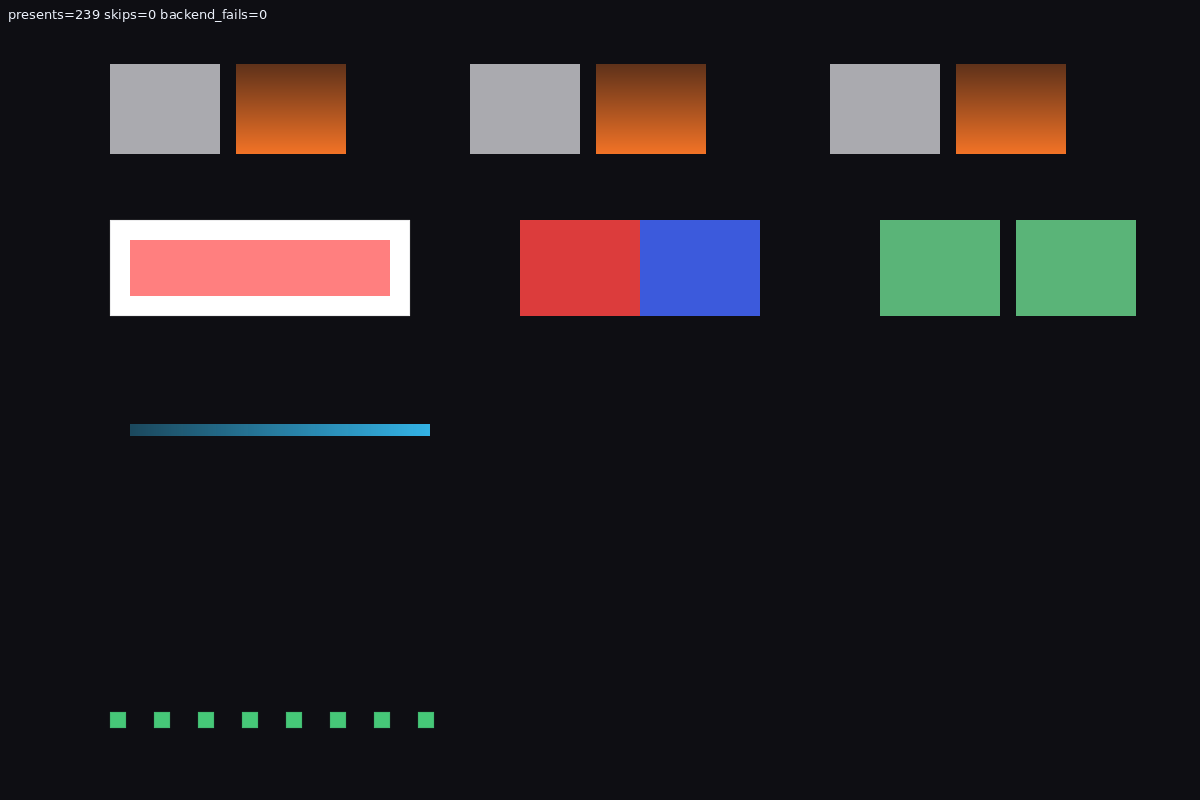
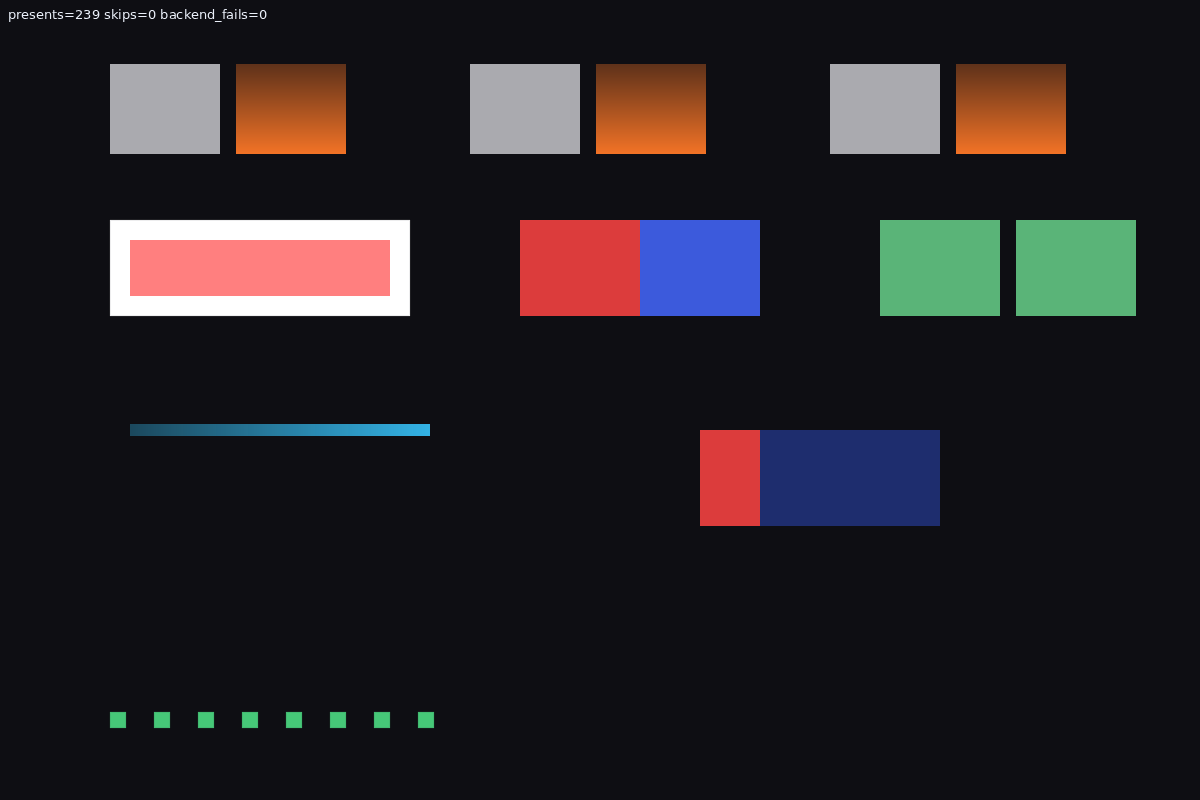
缺口2 补证：③ 窗加臂 F「材质 uniform 载荷参与出图」（探针 13→16）
窗内此前只在「校验」里碰 uniform，没有一帧画面由 uniform 的内容决定；
引擎侧 3c 的 mix_level 像素级验证只是原子验证，缺呈现帧真窗证据。

臂 F：272B uniform（array<vec4<f32>,16> 占位 256B，split@256B 落在旧预算之外、
gain@260B）决定分屏边界与右半增益。同几何、同纹理、同着色器只换字节跑三案
（split 0.25/0.75/0），固定像素必须跟着翻色；锚点与期望色写死在边界两侧、
不随 fSplit 自算（自算即循环断言）。不用全零载荷做「边界读 0」那案——那会把
增益一起归零成纯黑，与「什么都没画」不可分辨。

金图删基线重录：native/go 复核 + 两轮稳定轮四连 16/16 0.0000%、两基线逐位相同；
H16 第四变异 fSplit 0.25→0.60 双探针红 + 金图 0.875%，还原后双后端复绿。

Changed region(s): [[0.5858, 0.5312, 0.8017, 0.6562]]

diff --git a/examples/engine/p37_material/main.go b/examples/engine/p37_material/main.go
@@ -15,6 +15,10 @@
 //	e) 拒绝态底带：七哨兵六枚前端具名（errors.Is）+ 透视/bicubic+材质的
 //	   ErrQuadMaterialUnsupported 现场拒绝（MaterialSkips++）+ ShaderBackendFails
 //	   计数（gles 腿实测；预算顶格 shader 是本扇的 gles 承载尝试，结果如实记）。
+//	f) uniform 载荷参与出图：272B uniform（边界字段落在旧 256B 预算之外）决定分屏
+//	   边界与右半增益——同几何、同纹理、同着色器，只换 uniform 字节，边界必须跟着走；
+//	   全零载荷必须把边界读成 0（证明值真从载荷里来，不是着色器写死的）。
+//	   补的是审计缺口 2：此前本扇 uniform 只出现在「校验」里，没有一帧画面由它决定。
 //
 // 满窗即内容：指标行浮在画面左上（金图 mask 掉 y<32 带）；画面相位只随已完成
 // 帧数走、过 settling 帧后定格（H15）。金图按后端分文件
@@ -32,6 +36,7 @@
 package main
 
 import (
+	"encoding/binary"
 	"encoding/json"
 	"errors"
 	"flag"
@@ -82,6 +87,18 @@ const (
 	dY       = 430.0
 	dX0, dX1 = 130.0, 430.0
 	dWidth   = 12.0
+
+	// 臂 f uniform 载荷决定画面（272B：边界字段落在旧 256B 预算之外）。
+	// 落点避开臂 e 的「拒绝区应保持底色」锚 (610,560) 与底带 y≥712。
+	fImgX, fImgY = 700.0, 430.0
+	fImgW, fImgH = 240.0, 96.0
+	// 写进 uniform 的两个值（画面与探针共用同一份常数）。
+	fSplit = 0.25 // uv.x 空间的分屏边界
+	fGain  = 0.5  // 右半亮度增益
+	// uniformOldBudget = 批 3c 抬预算之前的上限；split 落在它之外，谁在半路截断
+	// 载荷，着色器就会把边界读成 0（整块变暗蓝），锚立刻报警。
+	uniformOldBudget  = 256
+	uniformSplitBytes = 272 // = 256B 占位 + split + gain + 两个保留 f32
 
 	// 拒绝态底带。
 	refusalY = 712.0
@@ -163,6 +180,44 @@ fn fs_main(@location(0) uv: vec2<f32>) -> @location(0) vec4<f32> {
 
 var testdataDir = filepath.Join("examples", "engine", "p37_material", "testdata")
 
+// effUniformSplitWGSL：臂 f 的着色器——分屏边界与右半增益**只**来自 uniform。
+// struct 前 256B 是占位（uniform 地址空间要求数组 stride 是 16 的倍数，故用
+// 16×vec4 而不是 64×f32——写成后者 naga 直接拒整个模块），`split` 落在偏移
+// 256B（旧预算之外）、`gain` 落在 260B ⇒ 载荷若被半路截断，边界读成 0、
+// 画面整块变暗蓝，锚立刻对不上。
+const effUniformSplitWGSL = `
+struct USplit {
+    pad: array<vec4<f32>, 16>,
+    split: f32,
+    gain: f32,
+    rsv2: f32,
+    rsv3: f32,
+}
+@group(0) @binding(0) var<uniform> u: USplit;
+@group(0) @binding(1) var m_tex0: texture_2d<f32>;
+@group(0) @binding(2) var m_samp0: sampler;
+@group(0) @binding(3) var m_tex1: texture_2d<f32>;
+@group(0) @binding(4) var m_samp1: sampler;
+
+@fragment
+fn fs_main(@location(0) uv: vec2<f32>) -> @location(0) vec4<f32> {
+    let a = textureSample(m_tex0, m_samp0, uv);
+    let b = textureSample(m_tex1, m_samp1, uv);
+    if uv.x < u.split {
+        return a;
+    }
+    return vec4<f32>(b.r * u.gain, b.g * u.gain, b.b * u.gain, b.a);
+}`
+
+// uniformSplitPayload 拼臂 f 的 272B uniform（GPU uniform 缓冲按小端原样 memcpy，
+// 平台即 x86/ARM 小端；偏移 256/260 处放两个 f32，其余留零）。
+func uniformSplitPayload(split, gain float32) []byte {
+	b := make([]byte, uniformSplitBytes)
+	binary.LittleEndian.PutUint32(b[uniformOldBudget:], math.Float32bits(split))
+	binary.LittleEndian.PutUint32(b[uniformOldBudget+4:], math.Float32bits(gain))
+	return b
+}
+
 // texSolid 生成纯色 ImageBuf（探针期望色 = 同一份常数）。
 func texSolid(w, h int, c [3]uint8) *render.ImageBuf {
 	buf, err := render.NewImageBuf(w, h, render.FormatRGBA8)
@@ -180,10 +235,18 @@ func texSolid(w, h int, c [3]uint8) *render.ImageBuf {
 }
 
 var (
-	texGray  = texSolid(110, 90, [3]uint8{170, 170, 175}) // 无材质对照
-	texRed   = texSolid(240, 96, [3]uint8{220, 60, 60})   // slot0 主图
-	texBlue  = texSolid(240, 96, [3]uint8{60, 90, 220})   // slot1 第二张
-	texIdent = texSolid(120, 96, [3]uint8{90, 180, 120})  // 恒等对照段
+	texGray  = texSolid(110, 90, texGrayColor)  // 无材质对照
+	texRed   = texSolid(240, 96, texRedColor)   // slot0 主图
+	texBlue  = texSolid(240, 96, texBlueColor)  // slot1 第二张
+	texIdent = texSolid(120, 96, texIdentColor) // 恒等对照段
+)
+
+// 纹理底色（探针期望色与 texSolid 的入参是同一份常数，改一处两边同步）。
+var (
+	texGrayColor  = [3]uint8{170, 170, 175}
+	texRedColor   = [3]uint8{220, 60, 60}
+	texBlueColor  = [3]uint8{60, 90, 220}
+	texIdentColor = [3]uint8{90, 180, 120}
 )
 
 func mustEffect(wgsl string) *render.ShaderEffect {
@@ -203,8 +266,17 @@ var (
 	effStroke   = mustEffect(effStrokeWGSL)
 )
 
+// 臂 f 的窗体实例：uniform 与第二张纹理都在 init 里一次性设好，绝不进每帧路径。
+var effUniformSplit = mustEffect(effUniformSplitWGSL)
+
 func init() {
 	if err := effSplit.SetImageAt(1, texBlue); err != nil {
+		panic(err)
+	}
+	if err := effUniformSplit.SetImageAt(1, texBlue); err != nil {
+		panic(err)
+	}
+	if err := effUniformSplit.SetUniformBytes(uniformSplitPayload(fSplit, fGain)); err != nil {
 		panic(err)
 	}
 }
@@ -304,6 +376,13 @@ func paintAll(dc render.Canvas, w, h float64) error {
 		return err
 	}
 	resetD()
+	// 臂 f：uniform 载荷决定画面（左 1/4 主图红、其余暗蓝；边界与增益全在 uniform 里）。
+	if err := dc.DrawImageQuad(texRed, [4]render.Point{
+		{X: fImgX, Y: fImgY}, {X: fImgX + fImgW, Y: fImgY},
+		{X: fImgX + fImgW, Y: fImgY + fImgH}, {X: fImgX, Y: fImgY + fImgH},
+	}, render.QuadDrawOptions{Material: effUniformSplit}); err != nil {
+		return err
+	}
 	// 臂 e：拒绝态底带（离屏探针同一份事实）。
 	paintRefusalBand(dc)
 	return nil
@@ -583,6 +662,58 @@ func runProbes() probeReport {
 		fmt.Sprintf("left=(%d,%d,%d) right=(%d,%d,%d)", lr, lg, lb, rr2, rg2, rb2))
 	_ = dcC.Close()
 
+	// 臂 f：uniform 载荷决定画面——同几何、同纹理、同着色器，只换 uniform 字节。
+	// 锚点全在固定像素上，期望色写死（`0.125 < fSplit(0.25) < 0.5 < 0.75`），
+	// 不随 fSplit 自算——否则 fSplit 被人改也照样「自洽绿」，就成循环断言了。
+	paintPayload := func(tag string, payload []byte) *render.Context {
+		dcF := newCtx(w, h)
+		effF := mustEffect(effUniformSplitWGSL)
+		if err := effF.SetImageAt(1, texBlue); err != nil {
+			failJoin(&rep, tag+" SetImageAt", err)
+		}
+		if err := effF.SetUniformBytes(payload); err != nil {
+			failJoin(&rep, tag+" SetUniformBytes", err)
+		}
+		if err := flushErr(dcF, func() error {
+			paintBackdrop(dcF, float64(w), float64(h))
+			return dcF.DrawImageQuad(texRed, [4]render.Point{
+				{X: fImgX, Y: fImgY}, {X: fImgX + fImgW, Y: fImgY},
+				{X: fImgX + fImgW, Y: fImgY + fImgH}, {X: fImgX, Y: fImgY + fImgH},
+			}, render.QuadDrawOptions{Material: effF})
+		}); err != nil {
+			failJoin(&rep, tag+" flush", err)
+		}
+		return dcF
+	}
+	dcF1 := paintPayload("arm f split=0.25", uniformSplitPayload(fSplit, fGain))
+	dcF2 := paintPayload("arm f split=0.75", uniformSplitPayload(0.75, fGain))
+	dcF3 := paintPayload("arm f split=0", uniformSplitPayload(0, fGain)) // 增益照旧，只把边界压到 0
+	fLeft, fMid, fRight, fY := int(fImgX+0.125*fImgW), int(fImgX+0.5*fImgW), int(fImgX+0.875*fImgW), int(fImgY+fImgH/2)
+	wantRed := texRedColor
+	wantDim := [3]uint8{uint8(float64(texBlueColor[0]) * fGain), uint8(float64(texBlueColor[1]) * fGain), uint8(float64(texBlueColor[2]) * fGain)}
+	matches := func(dc *render.Context, x, y int, want [3]uint8) (bool, [3]uint8) {
+		r, g, b, _ := pixelAt(dc, x, y)
+		return abs(int(r)-int(want[0])) <= int(blendTol) && abs(int(g)-int(want[1])) <= int(blendTol) && abs(int(b)-int(want[2])) <= int(blendTol),
+			[3]uint8{r, g, b}
+	}
+	m1a, got1a := matches(dcF1, fLeft, fY, wantRed)
+	m1b, got1b := matches(dcF1, fMid, fY, wantDim)
+	rep.add("uniform_payload_paints_split", m1a && m1b, fmt.Sprintf(
+		"split=%.2f 左=(%d,%d,%d) want红 中=(%d,%d,%d) want暗蓝", fSplit, got1a[0], got1a[1], got1a[2], got1b[0], got1b[1], got1b[2]))
+	m2a, got2a := matches(dcF2, fMid, fY, wantRed)
+	m2b, got2b := matches(dcF2, fRight, fY, wantDim)
+	midMoved, _ := matches(dcF1, fMid, fY, wantRed)
+	rep.add("uniform_boundary_follows_payload", m2a && m2b && !midMoved, fmt.Sprintf(
+		"同一像素 split 0.25→0.75：中=(%d,%d,%d)→(%d,%d,%d) 必须翻成红，右=(%d,%d,%d) 仍暗蓝",
+		got1b[0], got1b[1], got1b[2], got2a[0], got2a[1], got2a[2], got2b[0], got2b[1], got2b[2]))
+	m3a, got3a := matches(dcF3, fLeft, fY, wantDim)
+	rep.add("uniform_boundary_can_be_zero_from_payload", m3a, fmt.Sprintf(
+		"边界写 0（增益不变）左=(%d,%d,%d) 必须是暗蓝——仍是红就说明 split 不是从载荷 256B 处读的（黑=什么都没画，故不用全零载荷）",
+		got3a[0], got3a[1], got3a[2]))
+	_ = dcF1.Close()
+	_ = dcF2.Close()
+	_ = dcF3.Close()
+
 	// 臂 d：描边吃 shader（渐变而非环境实心）。
 	dcD := newCtx(w, h)
 	effStroke := mustEffect(effStrokeWGSL)
@@ -697,6 +828,12 @@ func semanticProbes() []wrkit.PixelProbe {
 	// 臂 c：左红右蓝
 	add("set_image_at_left_red", cImgX+40, cImgY+48, 220.0/255, 60.0/255, 60.0/255, blendTol)
 	add("set_image_at_right_blue", cImgX+cImgW-40, cImgY+48, 60.0/255, 90.0/255, 220.0/255, blendTol)
+	// 臂 f：uniform 的 split=0.25 把左 1/4 留成主图红，其余按 uniform 的 gain 变暗蓝
+	//（锚点在边界两侧固定不动，期望色 = 纹理底色 × gain 同一份常数）。
+	add("uniform_split_left_red", fImgX+0.125*fImgW, fImgY+fImgH/2,
+		float64(texRedColor[0])/255, float64(texRedColor[1])/255, float64(texRedColor[2])/255, blendTol)
+	add("uniform_split_rest_dim", fImgX+0.875*fImgW, fImgY+fImgH/2,
+		float64(texBlueColor[0])*fGain/255, float64(texBlueColor[1])*fGain/255, float64(texBlueColor[2])*fGain/255, blendTol)
 	// 臂 e：拒绝区保持底色
 	add("refused_region_backdrop", 610, 560, backdropRGB, backdropRGB, backdropRGB+0.02, blendTol)
 	return probes
